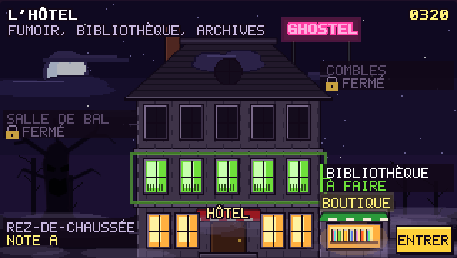
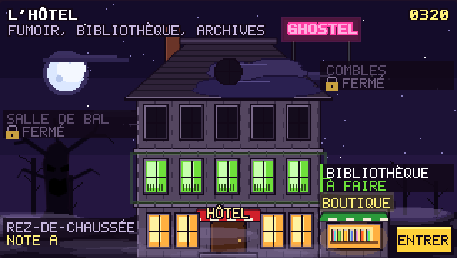
Ghostel : maquette hantée, la lune dégagée sur la nuit ordinaire

diff --git a/tools/mockup-ghost-train-hante.html b/tools/mockup-ghost-train-hante.html
@@ -213,7 +213,7 @@ const vivant = document.getElementById('vivant').getContext('2d');
 
 const MOMENTS = [
   { nom: 'Avant : le plan d\'aujourd\'hui', t: 4.2, A: {} },
-  { nom: 'La nuit ordinaire : nuages, brume, l\'arbre', t: 2.5, A: { lune: 1, brume: 1, arbre: 1 } },
+  { nom: 'La nuit ordinaire : nuages, brume, l\'arbre', t: 60, A: { lune: 1, brume: 1, arbre: 1 } },
   { nom: 'Un nuage cache la lune, tout s\'assombrit', t: 18.4, A: { lune: 1, brume: 1, arbre: 1 } },
   { nom: 'L\'éclair : l\'arbre montre son visage', t: 12.03, A: { lune: 1, brume: 1, arbre: 1, orage: 1 } },
   { nom: 'Juste après : ses yeux brillent encore', t: 12.4, A: { lune: 1, brume: 1, arbre: 1, orage: 1 } },
